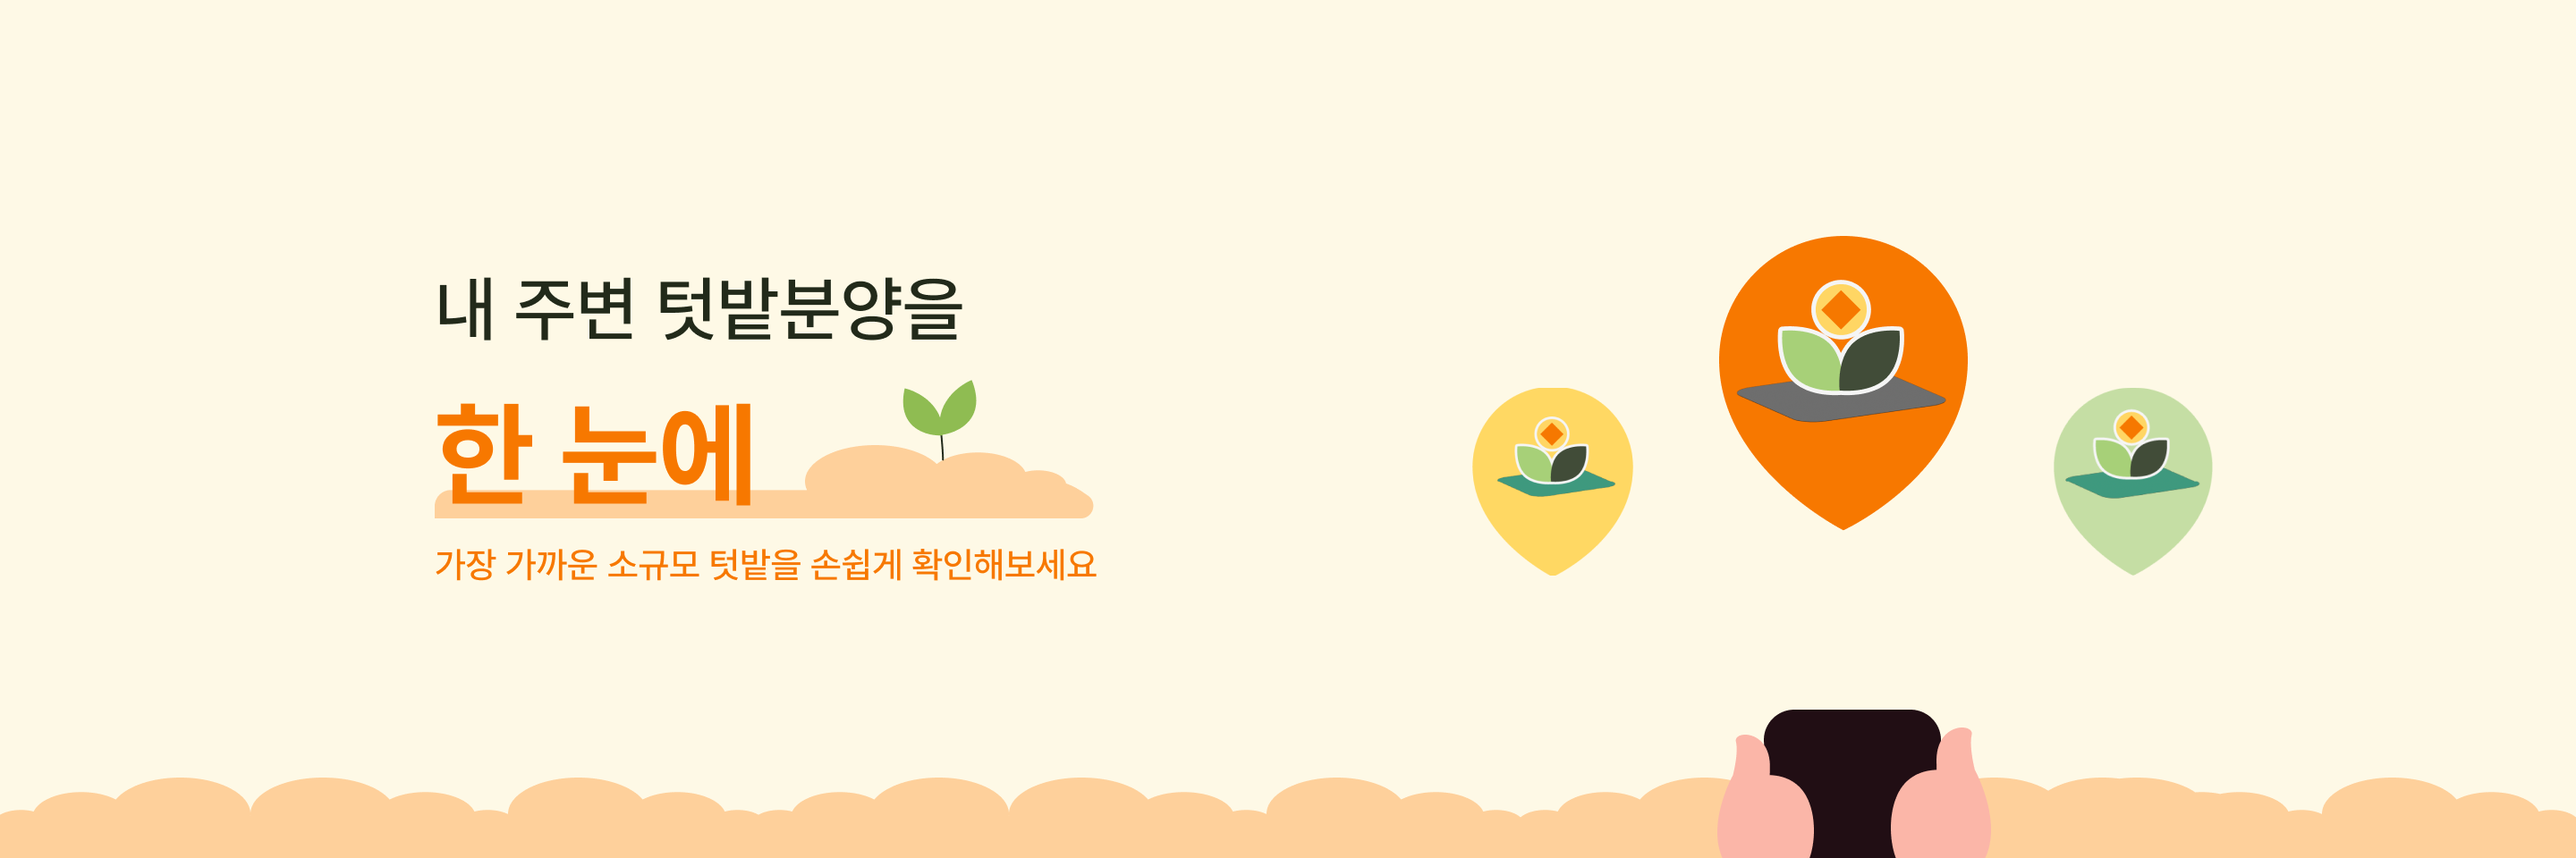
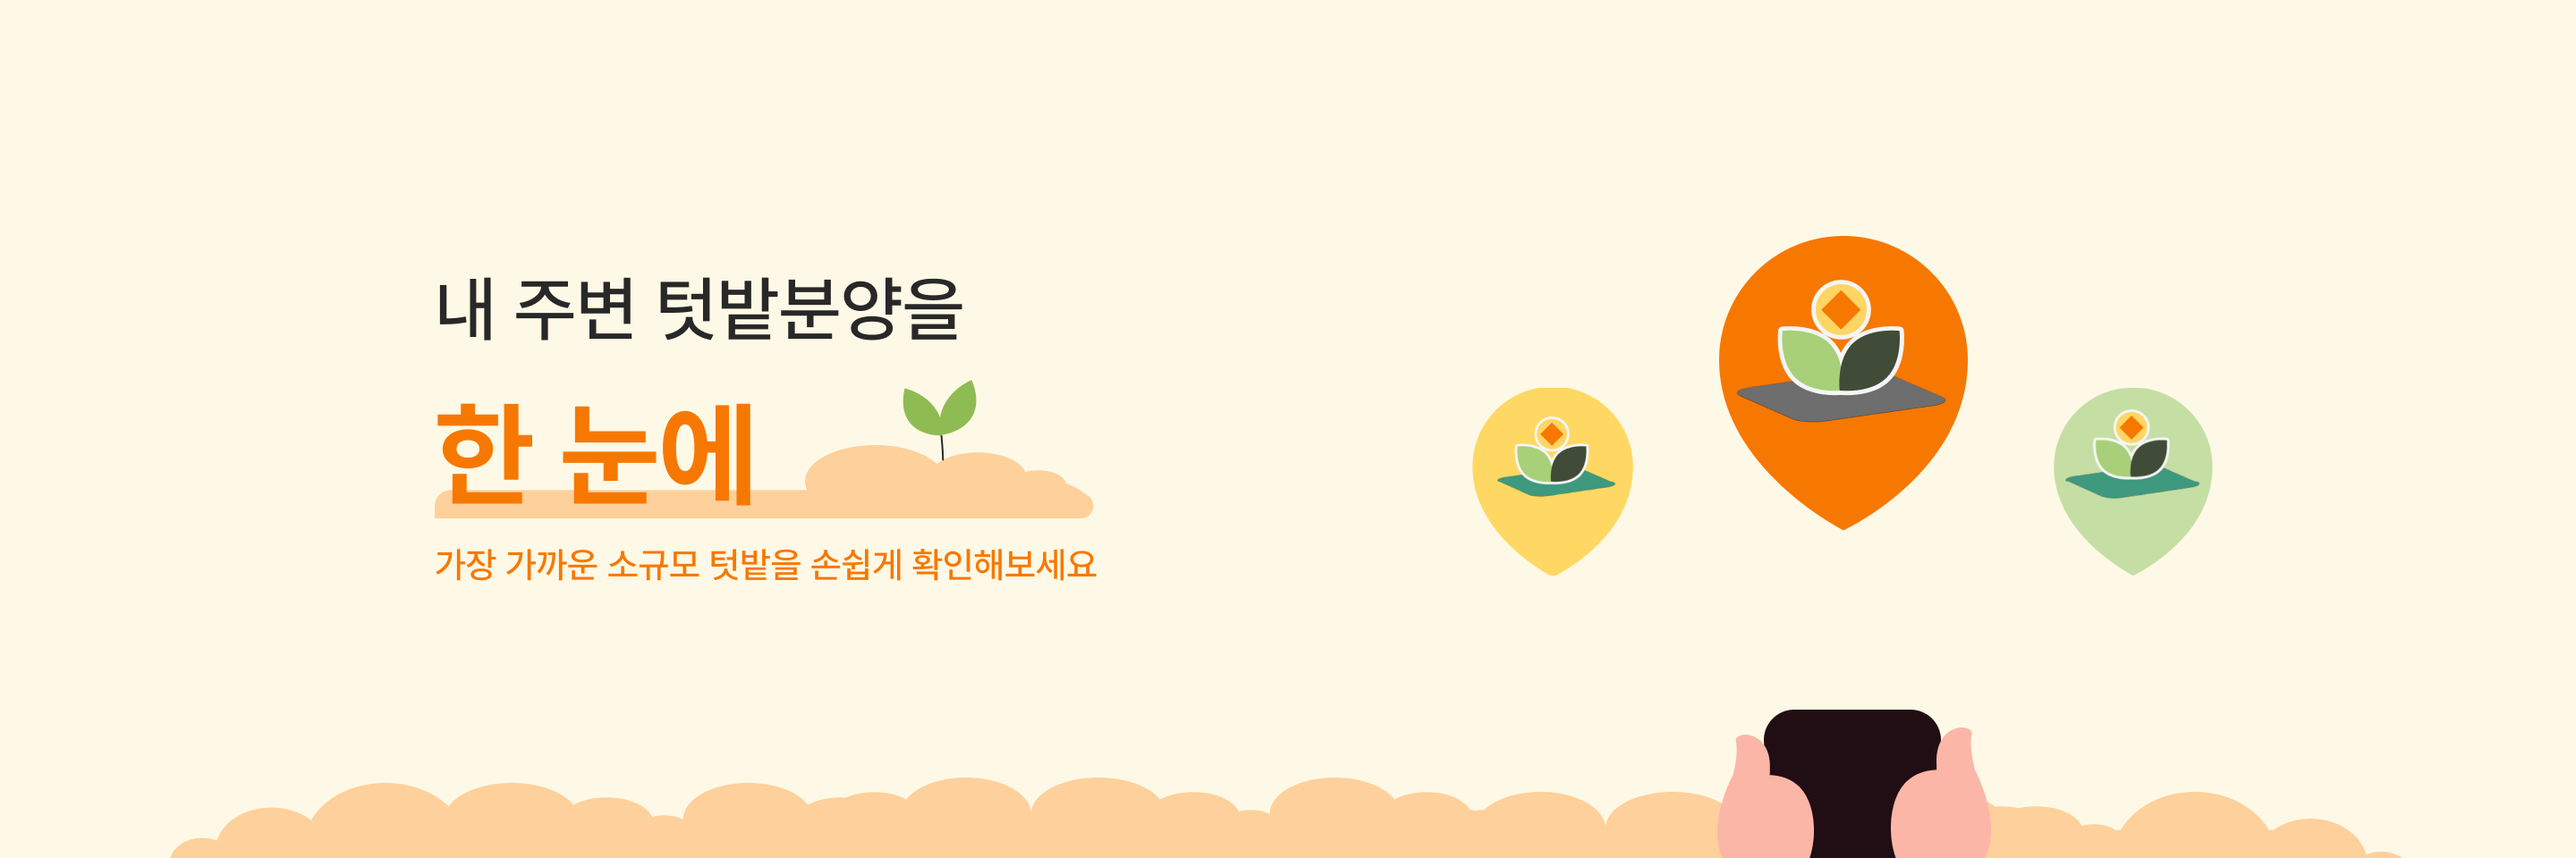
chore: Month image 추가

Changed region(s): [[0.0, 0.9062, 0.4688, 1.0], [0.75, 0.9062, 1.0, 1.0], [0.5625, 0.9062, 0.6875, 0.9688]]

diff --git a/src/utils/getMonthImage.ts b/src/utils/getMonthImage.ts
@@ -1,0 +1,62 @@
+import pc1 from 'assets/main/month/pc/1월.png';
+import pc2 from 'assets/main/month/pc/2월.png';
+import pc3 from 'assets/main/month/pc/3월.png';
+import pc4 from 'assets/main/month/pc/4월.png';
+import pc5 from 'assets/main/month/pc/5월.png';
+import pc6 from 'assets/main/month/pc/6월.png';
+import pc7 from 'assets/main/month/pc/7월.png';
+import pc8 from 'assets/main/month/pc/8월.png';
+import pc9 from 'assets/main/month/pc/9월.png';
+import pc10 from 'assets/main/month/pc/10월.png';
+import pc11 from 'assets/main/month/pc/11월.png';
+import pc12 from 'assets/main/month/pc/12월.png';
+import mobile1 from 'assets/main/month/mobile/1월.png';
+import mobile2 from 'assets/main/month/mobile/2월.png';
+import mobile3 from 'assets/main/month/mobile/3월.png';
+import mobile4 from 'assets/main/month/mobile/4월.png';
+import mobile5 from 'assets/main/month/mobile/5월.png';
+import mobile6 from 'assets/main/month/mobile/6월.png';
+import mobile7 from 'assets/main/month/mobile/7월.png';
+import mobile8 from 'assets/main/month/mobile/8월.png';
+import mobile9 from 'assets/main/month/mobile/9월.png';
+import mobile10 from 'assets/main/month/mobile/10월.png';
+import mobile11 from 'assets/main/month/mobile/11월.png';
+import mobile12 from 'assets/main/month/mobile/12월.png';
+
+interface MonthImages {
+  pc: string;
+  mobile: string;
+}
+
+const getMonthImage = (month: number): MonthImages => {
+  switch (month) {
+    case 1:
+      return { pc: pc1, mobile: mobile1 };
+    case 2:
+      return { pc: pc2, mobile: mobile2 };
+    case 3:
+      return { pc: pc3, mobile: mobile3 };
+    case 4:
+      return { pc: pc4, mobile: mobile4 };
+    case 5:
+      return { pc: pc5, mobile: mobile5 };
+    case 6:
+      return { pc: pc6, mobile: mobile6 };
+    case 7:
+      return { pc: pc7, mobile: mobile7 };
+    case 8:
+      return { pc: pc8, mobile: mobile8 };
+    case 9:
+      return { pc: pc9, mobile: mobile9 };
+    case 10:
+      return { pc: pc10, mobile: mobile10 };
+    case 11:
+      return { pc: pc11, mobile: mobile11 };
+    case 12:
+      return { pc: pc12, mobile: mobile12 };
+    default:
+      return { pc: pc1, mobile: mobile1 };
+  }
+};
+
+export default getMonthImage;

diff --git a/src/pages/Main/MonthlyCrop/MonthCropList.tsx b/src/pages/Main/MonthlyCrop/MonthCropList.tsx
@@ -2,8 +2,7 @@ import { useGetMonthCrop } from 'api/CropAPI';
 import React from 'react';
 import styled from 'styled-components';
 import MonthCropItem from './MonthCropItem';
-import { BREAK_POINT } from 'constants/style';
-import month1 from 'assets/main/month1.png';
+import getMonthImage from 'utils/getMonthImage';
 
 const MonthCropList = ({ currentMonth }: { currentMonth: number }) => {
   const { data: monthCrops } = useGetMonthCrop();
@@ -12,7 +11,8 @@ const MonthCropList = ({ currentMonth }: { currentMonth: number }) => {
 
   return (
     <Container>
-      <Img src={month1} />
+      <PcImg src={getMonthImage(currentMonth).pc} />
+      <MobileImg src={getMonthImage(currentMonth).mobile} />
       <ListWrapper>
         {monthCrops[currentMonth - 1].cropInfos.map(crop => (
           <MonthCropItem key={crop.name} cropInfo={crop} />
@@ -26,22 +26,34 @@ const Container = styled.div`
   display: flex;
   flex-direction: column;
   gap: 24px;
-  @media (min-width: ${BREAK_POINT.MOBILE}) {
+  @media ${({ theme }) => theme.devices.mobile} {
     flex-direction: row;
     gap: 30px;
   }
 `;
 
-const Img = styled.img`
+const PcImg = styled.img`
   width: 100%;
-  height: 178px;
   border-radius: 10px;
   object-fit: cover;
+  display: none;
 
-  @media (min-width: ${BREAK_POINT.MOBILE}) {
+  @media ${({ theme }) => theme.devices.mobile} {
     min-width: 305px;
     max-width: 582px;
     height: 227px;
+    display: block;
+  }
+`;
+
+const MobileImg = styled.img`
+  width: 100%;
+  border-radius: 10px;
+  object-fit: cover;
+  display: block;
+
+  @media ${({ theme }) => theme.devices.mobile} {
+    display: none;
   }
 `;
 
@@ -53,7 +65,7 @@ const ListWrapper = styled.ul`
   width: 100%;
   overflow-y: scroll;
 
-  @media (min-width: ${BREAK_POINT.MOBILE}) {
+  @media ${({ theme }) => theme.devices.mobile} {
     max-height: 228px;
     min-width: 265px;
   }

diff --git a/src/pages/Main/MonthlyCrop/MonthlyCrop.tsx b/src/pages/Main/MonthlyCrop/MonthlyCrop.tsx
@@ -7,14 +7,14 @@ const monthlyTitle = [
   null,
   '1월 추운 겨울 심기 좋은 작물 추천 해드려요!',
   '2월 추운 겨울 심기 좋은 작물 추천 해드려요!',
-  '3월 추운 겨울 심기 좋은 작물 추천 해드려요!',
-  '4월 추운 겨울 심기 좋은 작물 추천 해드려요!',
-  '5월 추운 겨울 심기 좋은 작물 추천 해드려요!',
-  '6월 추운 겨울 심기 좋은 작물 추천 해드려요!',
-  '7월 추운 겨울 심기 좋은 작물 추천 해드려요!',
-  '8월 추운 겨울 심기 좋은 작물 추천 해드려요!',
-  '9월 추운 겨울 심기 좋은 작물 추천 해드려요!',
-  '10월 추운 겨울 심기 좋은 작물 추천 해드려요!',
+  '3월 봄의 시작! 심기 좋은 작물 추천 해드려요!',
+  '4월 봄의 시작! 심기 좋은 작물 추천 해드려요!',
+  '5월 봄의 시작! 심기 좋은 작물 추천 해드려요!',
+  '6월 더운 여름 심기 좋은 작물 추천 해드려요!',
+  '7월 더운 여름 심기 좋은 작물 추천 해드려요!',
+  '8월 더운 여름 심기 좋은 작물 추천 해드려요!',
+  '9월 가을의 시작! 심기 좋은 작물 추천 해드려요!',
+  '10월 가을의 시작! 심기 좋은 작물 추천 해드려요!',
   '11월 추운 겨울 심기 좋은 작물 추천 해드려요!',
   '12월 추운 겨울 심기 좋은 작물 추천 해드려요!',
 ];

diff --git a/src/pages/Main/Banner.tsx b/src/pages/Main/Banner.tsx
@@ -1,11 +1,11 @@
 import React, { Fragment, useState } from 'react';
-import banner1 from 'assets/main/banner1.svg';
+import banner1 from 'assets/main/banner1.png';
 import banner1Mobile from 'assets/main/banner1-mobile.png';
 import banner2 from 'assets/main/banner2.png';
 import banner2Mobile from 'assets/main/banner2-mobile.png';
 import styled from 'styled-components';
 import { BREAK_POINT } from 'constants/style';
-import { ReactComponent as ArrowIcon } from 'assets/arrow-icon.svg';
+import { ReactComponent as ArrowIcon } from 'assets/main/arrow-icon.svg';
 
 const bannerList = [
   [banner1, banner1Mobile, '#FEF9E6'],
@@ -97,7 +97,7 @@ const LeftArrow = styled(ArrowIcon)`
   top: 50%;
   width: 24px;
   height: 24px;
-  transform: translateY(-50%);
+  transform: translateY(-50%) rotate(180deg);
   cursor: pointer;
 
   @media (min-width: ${BREAK_POINT.MOBILE}) {
@@ -109,7 +109,7 @@ const LeftArrow = styled(ArrowIcon)`
 const RightArrow = styled(LeftArrow)`
   right: 3%;
   left: auto;
-  transform: translateY(-50%) rotate(180deg);
+  transform: translateY(-50%);
 `;
 
 export default Banner;

diff --git a/src/utils/getWeatherIcon.ts b/src/utils/getWeatherIcon.ts
@@ -13,24 +13,18 @@ const getWeatherIcon = (weather: string): string => {
   switch (weather) {
     case '맑음':
       return clear;
-    case '흐림':
-      return cloudy;
     case '비':
       return rainy;
+    case '비/눈':
+      return cloudRain;
     case '눈':
       return snow;
-    case '바람':
-      return wind;
-    case '흐리고비':
+    case '빗방울':
       return cloudRain;
-    case '흐리고눈':
+    case '빗방울눈날림':
       return cloudSnow;
-    case '번개':
-      return lightning;
-    case '구름':
-      return cloud;
-    case '구름약간':
-      return hazy;
+    case '눈날림':
+      return cloudSnow;
     default:
       return clear;
   }
